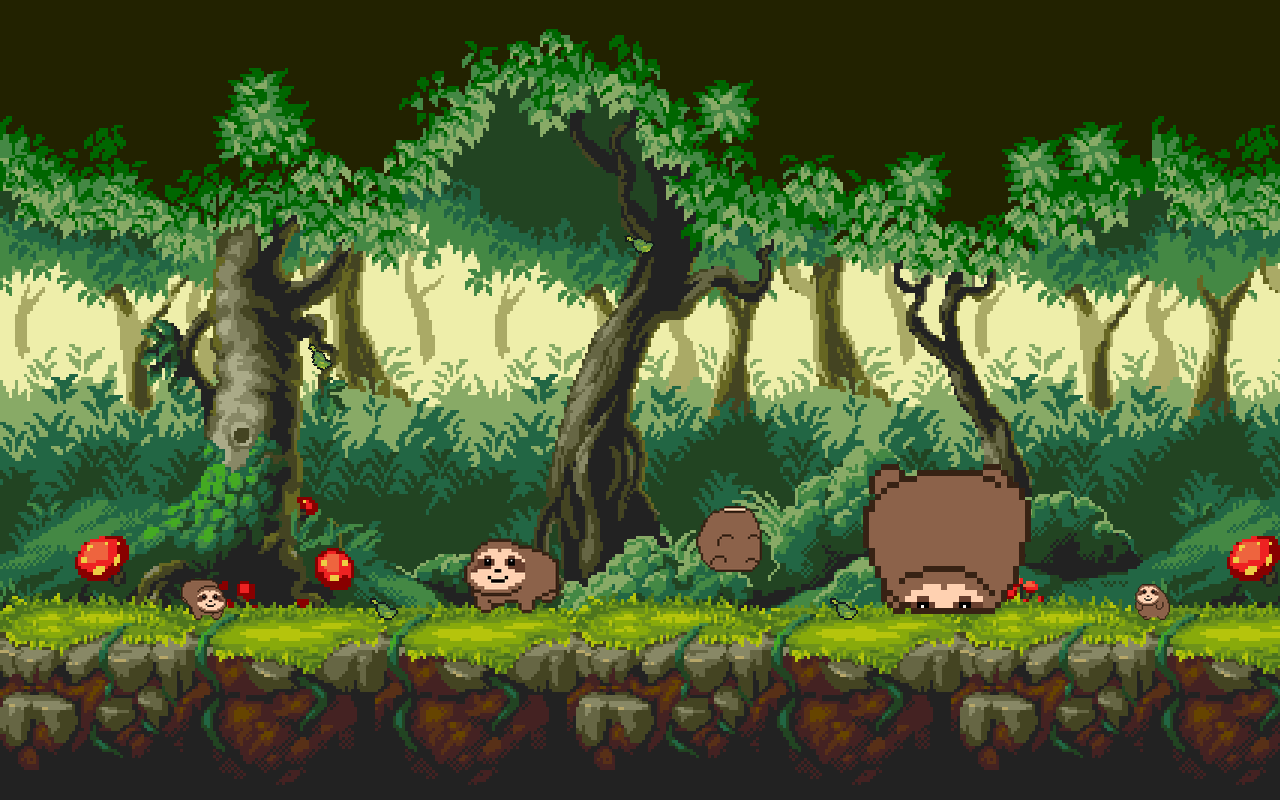
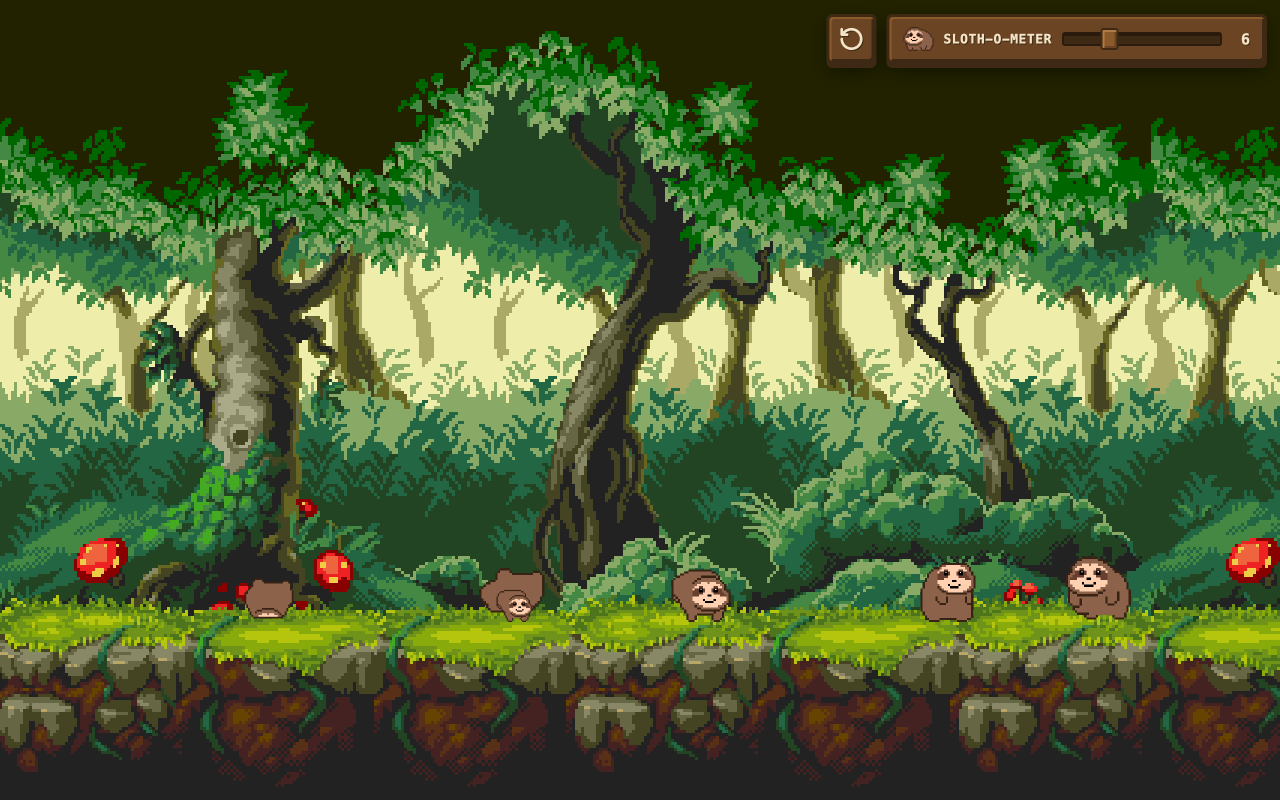
Use a real screenshot for the store listing
Replace the mock-up screenshot with a capture of the extension, scaled from
the 2560x1600 Retina shot to the 1280x800 the Web Store requires and
flattened to 24-bit. tools/store_assets.py now keeps existing files unless
--force is passed, so regenerating mock-ups never overwrites a real capture,
and gains --fit <capture.png> to convert future screenshots the same way.

Changed region(s): [[0.0, 0.0312, 1.0, 0.9688], [0.625, 0.0, 1.0, 0.0938]]

diff --git a/tools/store_assets.py b/tools/store_assets.py
@@ -11,11 +11,21 @@ The scene is composed exactly like js/scene.js + js/sim.js (bottom-anchored
 integer scale, A-B-B-A-B ground blocks, ground line 4 art px below the grass
 edge) and populated with sloths and leaves. They are mock-ups in the sense
 that no browser was involved, so swap in real screenshots whenever you have
-them. Needs Pillow.
+them: files that already exist in store/ are left alone unless you pass
+--force, so a real screenshot saved there is never overwritten.
+
+    python3 tools/store_assets.py [--force]
+    python3 tools/store_assets.py --fit path/to/capture.png
+        Resize a real capture to 1280x800 (exact 16:10 captures scale,
+        anything else is centre-cropped first) and save it flat (no alpha)
+        as store/screenshot-1280x800.png.
+
+Needs Pillow.
 """
 import math
 import pathlib
 import shutil
+import sys
 
 from PIL import Image
 
@@ -150,20 +160,52 @@ def marquee(art):
     return c
 
 
-def main():
+def fit_screenshot(capture, size=(1280, 800)):
+    """Turn a real capture (e.g. a 2560x1600 Retina shot) into a store screenshot."""
+    src = Image.open(capture).convert("RGBA")
+    flat = Image.new("RGB", src.size, (34, 34, 0))
+    flat.paste(src, mask=src.split()[3])
+    target = size[0] / size[1]
+    if abs(flat.width / flat.height - target) > 1e-3:
+        # Centre-crop to 16:10 before scaling so nothing is squashed.
+        if flat.width / flat.height > target:
+            w = round(flat.height * target)
+            x0 = (flat.width - w) // 2
+            flat = flat.crop((x0, 0, x0 + w, flat.height))
+        else:
+            h = round(flat.width / target)
+            y0 = (flat.height - h) // 2
+            flat = flat.crop((0, y0, flat.width, y0 + h))
+    exact = flat.width % size[0] == 0 and flat.width // size[0] == flat.height // size[1]
+    out = flat.resize(size, Image.BOX if exact else Image.LANCZOS)
+    STORE.mkdir(exist_ok=True)
+    out.save(STORE / "screenshot-1280x800.png", optimize=True)
+    print(f"store/screenshot-1280x800.png: {out.width}x{out.height} from {src.width}x{src.height}")
+
+
+def main(argv):
+    if "--fit" in argv:
+        fit_screenshot(argv[argv.index("--fit") + 1])
+        return
+    force = "--force" in argv
     STORE.mkdir(exist_ok=True)
     art = Art()
     outputs = {
-        "screenshot-1280x800.png": screenshot(art),
-        "promo-small-440x280.png": small_tile(art),
-        "promo-marquee-1400x560.png": marquee(art),
+        "screenshot-1280x800.png": screenshot,
+        "promo-small-440x280.png": small_tile,
+        "promo-marquee-1400x560.png": marquee,
     }
-    for name, image in outputs.items():
-        image.convert("RGB").save(STORE / name, optimize=True)  # 24-bit, no alpha
+    for name, render in outputs.items():
+        path = STORE / name
+        if path.exists() and not force:
+            print(f"store/{name}: kept (pass --force to regenerate the mock-up)")
+            continue
+        image = render(art)
+        image.convert("RGB").save(path, optimize=True)  # 24-bit, no alpha
         print(f"store/{name}: {image.width}x{image.height}")
     shutil.copyfile(ROOT / "icons" / "icon128.png", STORE / "icon128.png")
     print("store/icon128.png: 128x128")
 
 
 if __name__ == "__main__":
-    main()
+    main(sys.argv[1:])

diff --git a/store/LISTING.md b/store/LISTING.md
@@ -42,9 +42,11 @@ Each upload needs a higher `"version"` in `manifest.json` than the one on the st
 
 **Store icon (required):** `store/icon128.png` (128x128)
 
-**Screenshots (at least one required, 1280x800):** `store/screenshot-1280x800.png`
-Replace or add real screenshots when convenient: open a new tab, size the
-window to 1280x800 (DevTools device toolbar makes this exact) and capture it.
+**Screenshots (at least one required, exactly 1280x800 or 640x400):**
+`store/screenshot-1280x800.png` is a real capture of the extension. Retina
+captures come out at 2x (2560x1600) and the store rejects them as-is; run
+`python3 tools/store_assets.py --fit <capture.png>` to scale a capture down
+to a flat 1280x800 PNG in place.
 
 **Small promo tile (optional, 440x280):** `store/promo-small-440x280.png`
 

diff --git a/README.md b/README.md
@@ -102,7 +102,8 @@ After editing files, hit the reload icon on the extension's card in
 python3 tools/build_assets.py   # if any art or audio changed
 node --test tests/
 python3 tools/package.py        # -> dist/tumble-grove-<version>.zip (runtime files only)
-python3 tools/store_assets.py   # -> store/*.png listing images (optional, from the game art)
+python3 tools/store_assets.py   # -> store/*.png mock-up listing images (never overwrites existing ones)
+python3 tools/store_assets.py --fit capture.png   # real screenshot -> store/screenshot-1280x800.png
 ```
 
 1. Bump `"version"` in `manifest.json`; the store refuses a version that is not
